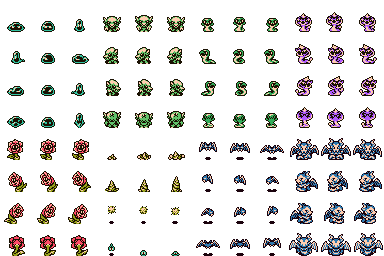
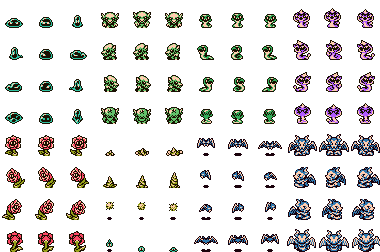
Fix monsters2/monsters3 spritesheet dimensions

diff --git a/src/scenes/Preloader.ts b/src/scenes/Preloader.ts
@@ -184,12 +184,16 @@ export class Preloader extends Scene {
 			spacing: 4,
 		});
 		this.load.spritesheet("monsters2", "Monsters2.png", {
-			frameWidth: 32,
-			frameHeight: 32,
+			frameWidth: 28,
+			frameHeight: 28,
+			margin: 0,
+			spacing: 4,
 		});
 		this.load.spritesheet("monsters3", "Monsters3.png", {
-			frameWidth: 32,
-			frameHeight: 32,
+			frameWidth: 28,
+			frameHeight: 28,
+			margin: 0,
+			spacing: 4,
 		});
 		this.load.spritesheet("monsters4", "Monsters4.png", {
 			frameWidth: 28,
